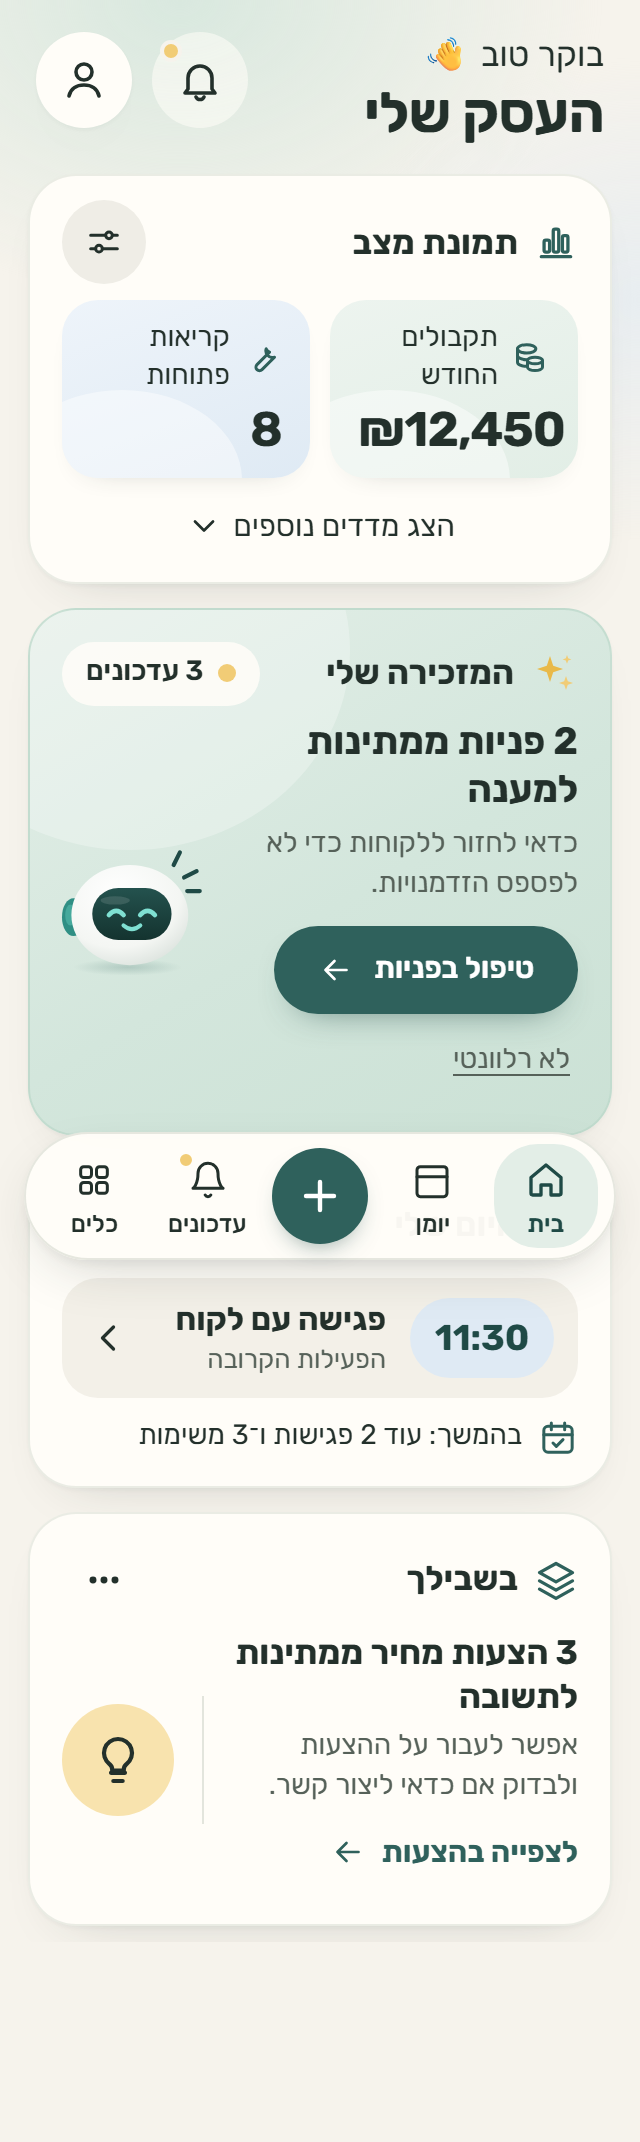
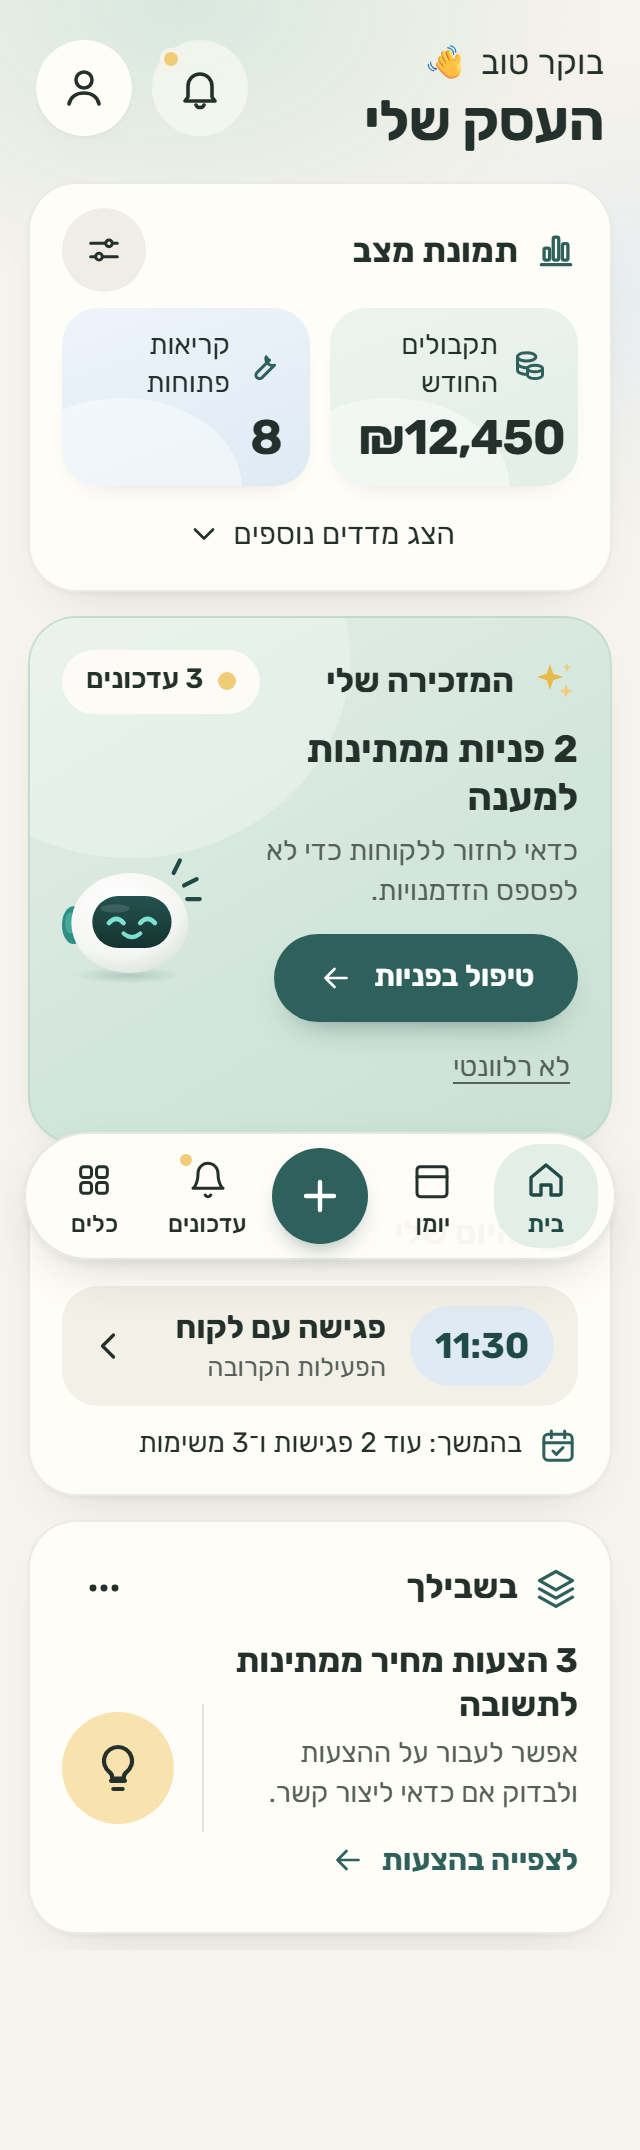
feat(home): HOME v4 — "היום שלי" keeps its place without appointments/tasks (decision 1) + refreshed evidence (DRAFT)
When neither appointments nor daily_tasks is active the area no longer disappears: it shows a
compact link to the Secretary calendar (tasks, payments, due dates), the same place the fixed
"יומן" tab leads. It makes no claim about the day itself. Screenshots re-shot from this tree
(harness, mocked data, 0 console errors).

diff --git a/features/home/v4/home-v4.tsx b/features/home/v4/home-v4.tsx
@@ -5,6 +5,7 @@ import { useId, useMemo, useState } from "react";
 
 import { useI18n } from "@/components/i18n/I18nProvider";
 import { AdaptiveOverlay } from "@/components/ui/adaptive-overlay";
+import { DAY_CALENDAR_FALLBACK } from "@/components/navigation/use-nav-href";
 import { greetingForHour } from "@/features/home/lib/home-model";
 import type { MessageKey } from "@/lib/i18n/translate";
 
@@ -587,11 +588,20 @@ function TodayCard({ data, retry, now }: { data: HomeV4Data; retry: () => void; 
     });
   }, [data, now, t]);
 
-  // Neither a calendar nor tasks are active for this business: the area is absent, never an empty card.
-  if (view.state === "hidden") return null;
-
+  // Neither a calendar nor tasks are active (owner decision 18.11): the area keeps its place and leads to the
+  // Secretary calendar — tasks, payments and due dates every business has. It claims nothing about the day itself.
   let body: React.ReactNode;
-  if (view.state === "loading") body = <div style={{ marginTop: 10 }}><Skeleton h={68} r={18} /></div>;
+  if (view.state === "calendarOnly") {
+    body = (
+      <Link href={DAY_CALENDAR_FALLBACK} prefetch={false} className="h4-quiet" style={{ textDecoration: "none" }}>
+        <IconCalendarCheck size={20} />
+        <span style={{ flex: 1 }}>
+          <strong>{t("home.v4.today.calendarOnly")}</strong> · {t("home.v4.today.calendarOnlyBody")}
+        </span>
+        <IconChevronForward size={20} />
+      </Link>
+    );
+  } else if (view.state === "loading") body = <div style={{ marginTop: 10 }}><Skeleton h={68} r={18} /></div>;
   else if (view.state === "failed") body = <FailedNote text={t("home.v4.today.failed")} onRetry={retry} />;
   else if (!view.next) {
     body = (

diff --git a/features/home/v4/home-v4-model.test.ts b/features/home/v4/home-v4-model.test.ts
@@ -135,7 +135,7 @@ ok("state E (lots waiting): still ONE recommendation; the chip counts every visi
 
 /* ------------------------------------------------------------- today -- */
 const appt = (id: number, iso: string, extra: Record<string, unknown> = {}) => ({ id, status: "CONFIRMED", kind: "CUSTOMER", startsAt: iso, endsAt: new Date(new Date(iso).getTime() + 3600_000).toISOString(), title: "פגישה עם לקוח", ...extra });
-ok("hidden when neither calendar nor tasks are active (state B: no empty card)", buildToday({ appointments: { state: "off" }, tasks: { state: "off" }, now: NOW, t }).state === "hidden");
+ok("decision 1: neither calendar nor tasks active → the area stays and leads to the Secretary calendar (no claim about the day)", buildToday({ appointments: { state: "off" }, tasks: { state: "off" }, now: NOW, t }).state === "calendarOnly");
 ok("next = earliest upcoming; rest = 2 meetings and 3 tasks", (() => {
   const v = buildToday({
     appointments: ready([appt(1, "2026-11-18T09:30:00Z"), appt(2, "2026-11-18T12:00:00Z"), appt(3, "2026-11-18T14:00:00Z"), appt(4, "2026-11-18T05:00:00Z")]),

diff --git a/features/home/v4/home-v4-model.ts b/features/home/v4/home-v4-model.ts
@@ -268,7 +268,8 @@ export type TodayEntry = {
 };
 
 export type TodayView =
-  | { state: "hidden" }
+  /** Neither appointments nor tasks are active: the area stays and points at the Secretary calendar (owner 18.11). */
+  | { state: "calendarOnly" }
   | { state: "loading" }
   | { state: "failed" }
   | {
@@ -305,7 +306,7 @@ export function buildToday(input: {
 }): TodayView {
   const { appointments, tasks, now, t } = input;
   const sources = [appointments, tasks];
-  if (sources.every((s) => s.state === "off")) return { state: "hidden" };
+  if (sources.every((s) => s.state === "off")) return { state: "calendarOnly" };
   const on = sources.filter((s) => s.state !== "off");
   if (on.some((s) => s.state === "loading")) return { state: "loading" };
   if (on.every((s) => s.state === "failed")) return { state: "failed" };

diff --git a/lib/i18n/messages/areas/home-v4.ts b/lib/i18n/messages/areas/home-v4.ts
@@ -81,6 +81,8 @@ export const homeV4He = {
     restNone: "אין עוד פעילות מתוכננת להיום",
     empty: "אין פעילות מתוכננת להיום",
     emptyBody: "יום פנוי — אפשר לקבוע משהו חדש.",
+    calendarOnly: "היומן של המזכירה",
+    calendarOnlyBody: "משימות, תשלומים ומועדים במקום אחד",
     failed: "לא הצלחנו לטעון את היום",
     partial: "חלק מהיום לא נטען",
     retry: "נסו שוב",

diff --git a/lib/i18n/messages/areas/home-v4.en.ts b/lib/i18n/messages/areas/home-v4.en.ts
@@ -80,6 +80,8 @@ export const homeV4En: Widen<typeof homeV4He> = {
     restNone: "Nothing else planned for today",
     empty: "Nothing planned for today",
     emptyBody: "A free day — you can plan something new.",
+    calendarOnly: "The Secretary's calendar",
+    calendarOnlyBody: "Tasks, payments and due dates in one place",
     failed: "We couldn't load your day",
     partial: "Part of the day didn't load",
     retry: "Try again",
